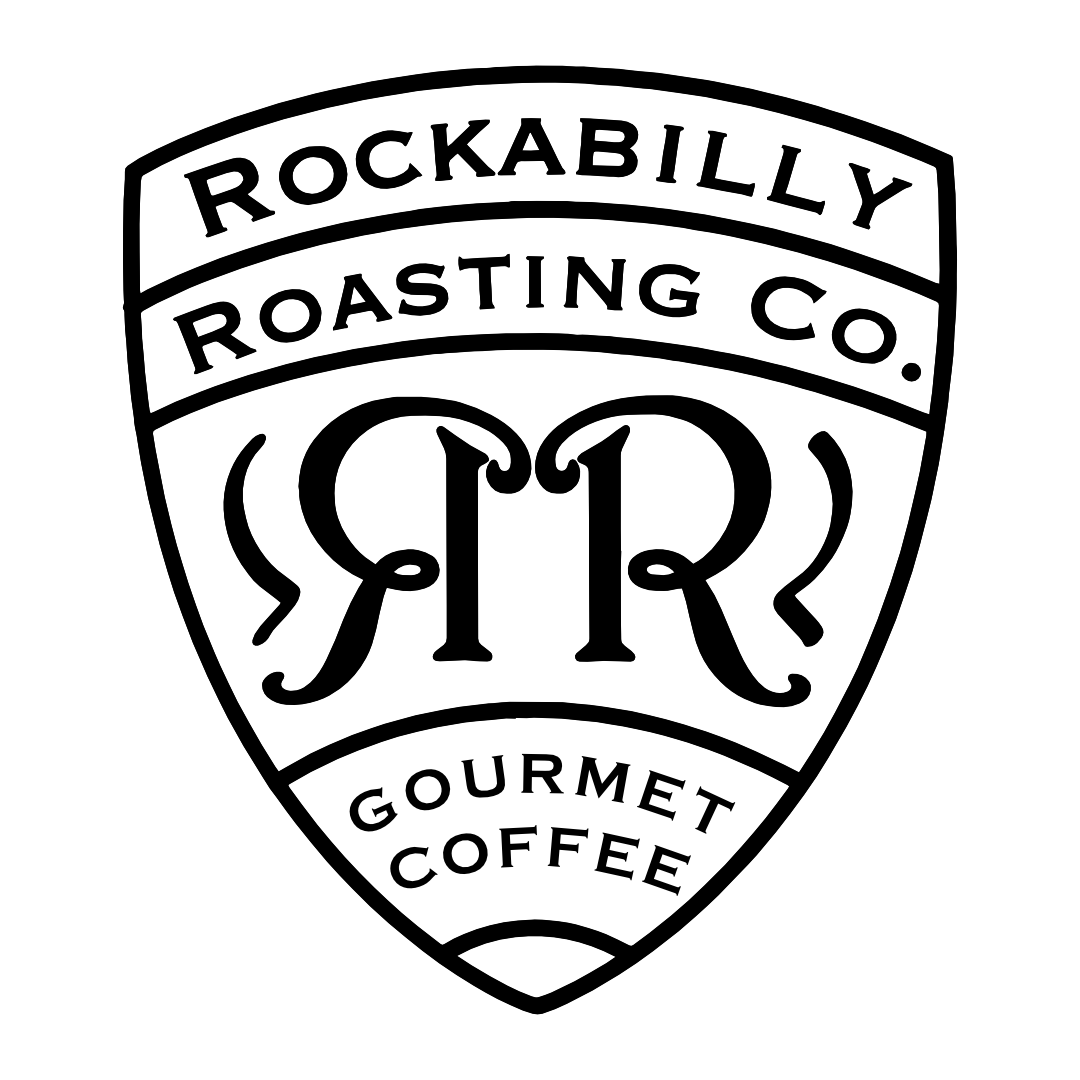
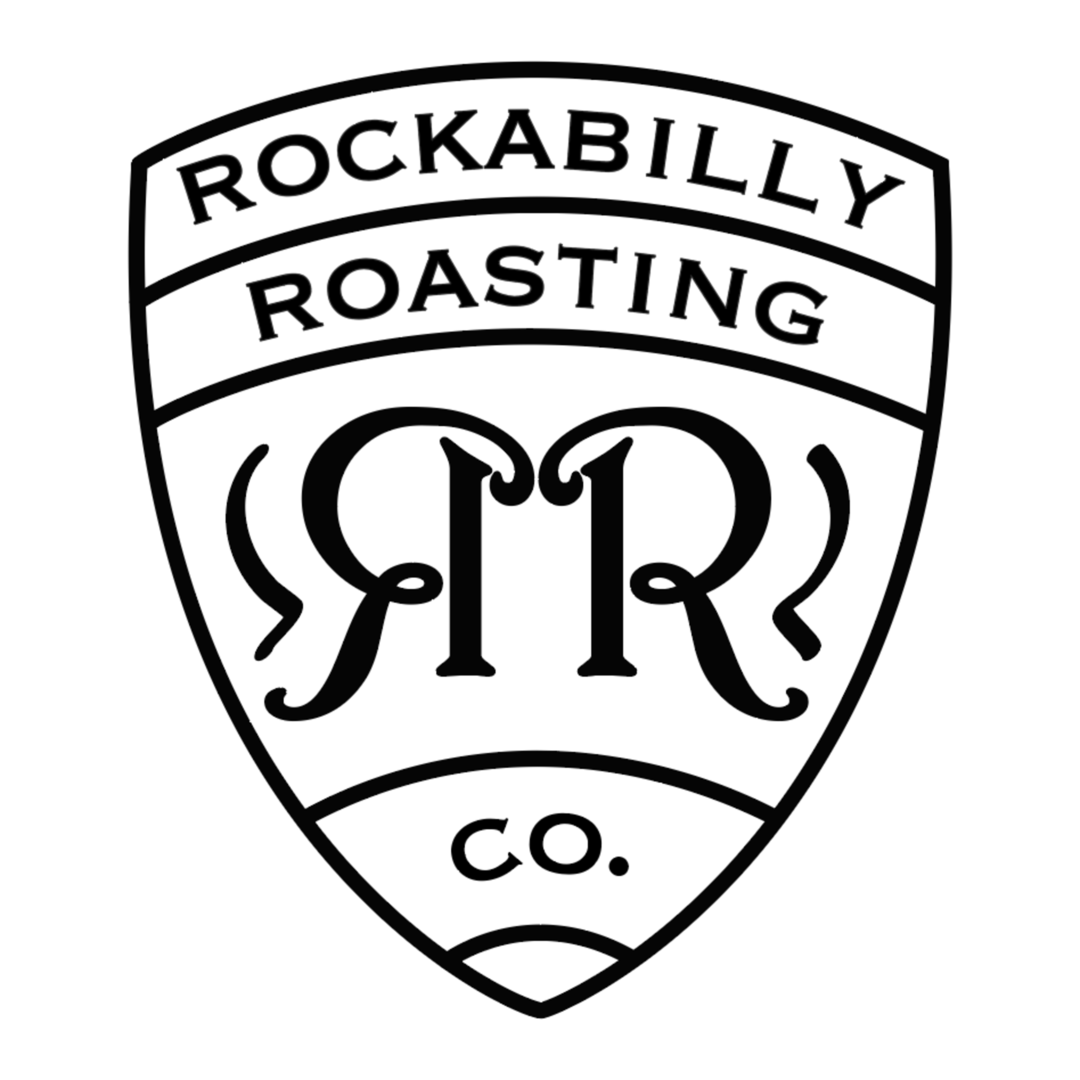
Brand: simplified CO. shield badges + double-candle on Daily Grind
Regenerate the raster badge assets from the new simplified primary mark
(ROCKABILLY / ROASTING / RR / CO.), dropping the old GOURMET COFFEE
double-stroke version. badge-white/black feed the storefront header,
footer, and printed invoice + packing slip — no template changes needed
since references are unchanged.

Add the transparent double-candle mark as the Daily Grind brand anchor,
centered in the amber glow above the hero eyebrow on both the homepage
subscription pitch and the /subscriptions landing.

diff --git a/internal/ui/storefront/subscriptions_templ.go b/internal/ui/storefront/subscriptions_templ.go
@@ -50,7 +50,7 @@ func SubscriptionsContent(props SubscriptionsPageProps) templ.Component {
 			templ_7745c5c3_Var1 = templ.NopComponent
 		}
 		ctx = templ.ClearChildren(ctx)
-		templ_7745c5c3_Err = templruntime.WriteString(templ_7745c5c3_Buffer, 1, "<!-- Hero: ink surface, candle glow, stamp-pressed headline --><section class=\"-mx-4 sm:-mx-6 lg:-mx-8 -mt-8 relative bg-ink overflow-hidden\"><!-- Amber radial glow centered --><div class=\"absolute inset-0 pointer-events-none\" style=\"background: radial-gradient(ellipse at center, rgba(242,160,61,0.16) 0%, rgba(242,160,61,0.04) 45%, transparent 75%);\"></div><!-- Paper halftone dot texture --><div class=\"absolute inset-0 texture-halftone-paper pointer-events-none\" style=\"mask-image: linear-gradient(180deg, transparent, black 25%, black 75%, transparent); -webkit-mask-image: linear-gradient(180deg, transparent, black 25%, black 75%, transparent);\"></div><div class=\"relative mx-auto max-w-5xl px-6 sm:px-10 lg:px-14 py-20 sm:py-28 text-center\"><p class=\"font-oswald font-semibold text-candle text-xs sm:text-sm\" style=\"letter-spacing:0.3em; text-transform:uppercase;\">Fresh on your schedule</p><h1 class=\"font-slab text-paper uppercase leading-[0.9] mt-5\" style=\"font-size: clamp(2.75rem, 8vw, 5.5rem); letter-spacing:-0.005em;\">The Daily <span class=\"font-script text-candle normal-case inline-block align-baseline\" style=\"font-size:1.05em; letter-spacing:0;\">grind.</span></h1><p class=\"font-oswald text-paper-warm text-base sm:text-lg leading-relaxed mt-6 max-w-xl mx-auto\">Pick the roast. Pick the cadence. We roast it, let it rest, and ship it at its peak — the way good coffee is meant to be enjoyed.</p><!-- Three inline value props, newspaper-column feel --><ul class=\"mt-10 inline-flex flex-col sm:flex-row items-center gap-3 sm:gap-0 font-oswald font-bold text-paper text-xs sm:text-sm\" style=\"letter-spacing:0.2em; text-transform:uppercase;\"><li class=\"inline-flex items-center gap-2\"><span class=\"text-candle\" aria-hidden=\"true\">◆</span> Always fresh</li><li class=\"hidden sm:inline-block text-chrome-deep mx-5\" aria-hidden=\"true\">·</li>")
+		templ_7745c5c3_Err = templruntime.WriteString(templ_7745c5c3_Buffer, 1, "<!-- Hero: ink surface, candle glow, stamp-pressed headline --><section class=\"-mx-4 sm:-mx-6 lg:-mx-8 -mt-8 relative bg-ink overflow-hidden\"><!-- Amber radial glow centered --><div class=\"absolute inset-0 pointer-events-none\" style=\"background: radial-gradient(ellipse at center, rgba(242,160,61,0.16) 0%, rgba(242,160,61,0.04) 45%, transparent 75%);\"></div><!-- Paper halftone dot texture --><div class=\"absolute inset-0 texture-halftone-paper pointer-events-none\" style=\"mask-image: linear-gradient(180deg, transparent, black 25%, black 75%, transparent); -webkit-mask-image: linear-gradient(180deg, transparent, black 25%, black 75%, transparent);\"></div><div class=\"relative mx-auto max-w-5xl px-6 sm:px-10 lg:px-14 py-20 sm:py-28 text-center\"><!-- Double-candle mark: the Daily Grind brand anchor, lit by the amber glow behind it --><img src=\"/static/double-candle-mark.png\" alt=\"\" aria-hidden=\"true\" class=\"mx-auto mb-8 h-36 sm:h-44 w-auto select-none pointer-events-none\" width=\"583\" height=\"760\" loading=\"eager\" decoding=\"async\"><p class=\"font-oswald font-semibold text-candle text-xs sm:text-sm\" style=\"letter-spacing:0.3em; text-transform:uppercase;\">Fresh on your schedule</p><h1 class=\"font-slab text-paper uppercase leading-[0.9] mt-5\" style=\"font-size: clamp(2.75rem, 8vw, 5.5rem); letter-spacing:-0.005em;\">The Daily <span class=\"font-script text-candle normal-case inline-block align-baseline\" style=\"font-size:1.05em; letter-spacing:0;\">grind.</span></h1><p class=\"font-oswald text-paper-warm text-base sm:text-lg leading-relaxed mt-6 max-w-xl mx-auto\">Pick the roast. Pick the cadence. We roast it, let it rest, and ship it at its peak — the way good coffee is meant to be enjoyed.</p><!-- Three inline value props, newspaper-column feel --><ul class=\"mt-10 inline-flex flex-col sm:flex-row items-center gap-3 sm:gap-0 font-oswald font-bold text-paper text-xs sm:text-sm\" style=\"letter-spacing:0.2em; text-transform:uppercase;\"><li class=\"inline-flex items-center gap-2\"><span class=\"text-candle\" aria-hidden=\"true\">◆</span> Always fresh</li><li class=\"hidden sm:inline-block text-chrome-deep mx-5\" aria-hidden=\"true\">·</li>")
 		if templ_7745c5c3_Err != nil {
 			return templ_7745c5c3_Err
 		}
@@ -62,7 +62,7 @@ func SubscriptionsContent(props SubscriptionsPageProps) templ.Component {
 			var templ_7745c5c3_Var2 string
 			templ_7745c5c3_Var2, templ_7745c5c3_Err = templ.JoinStringErrs(fmt.Sprintf("%d%%", props.maxDiscount()))
 			if templ_7745c5c3_Err != nil {
-				return templ.Error{Err: templ_7745c5c3_Err, FileName: `internal/ui/storefront/subscriptions.templ`, Line: 52, Col: 53}
+				return templ.Error{Err: templ_7745c5c3_Err, FileName: `internal/ui/storefront/subscriptions.templ`, Line: 63, Col: 53}
 			}
 			_, templ_7745c5c3_Err = templ_7745c5c3_Buffer.WriteString(templ.EscapeString(templ_7745c5c3_Var2))
 			if templ_7745c5c3_Err != nil {
@@ -143,7 +143,7 @@ func subscriptionProductCardPaper(card SubscriptionProductCard) templ.Component 
 		var templ_7745c5c3_Var4 templ.SafeURL
 		templ_7745c5c3_Var4, templ_7745c5c3_Err = templ.JoinURLErrs(templ.SafeURL("/catalog/" + card.Product.Slug + "?mode=subscribe"))
 		if templ_7745c5c3_Err != nil {
-			return templ.Error{Err: templ_7745c5c3_Err, FileName: `internal/ui/storefront/subscriptions.templ`, Line: 143, Col: 77}
+			return templ.Error{Err: templ_7745c5c3_Err, FileName: `internal/ui/storefront/subscriptions.templ`, Line: 154, Col: 77}
 		}
 		_, templ_7745c5c3_Err = templ_7745c5c3_Buffer.WriteString(templ.EscapeString(templ_7745c5c3_Var4))
 		if templ_7745c5c3_Err != nil {
@@ -161,7 +161,7 @@ func subscriptionProductCardPaper(card SubscriptionProductCard) templ.Component 
 			var templ_7745c5c3_Var5 string
 			templ_7745c5c3_Var5, templ_7745c5c3_Err = templ.ResolveAttributeValue(card.ThumbnailURL)
 			if templ_7745c5c3_Err != nil {
-				return templ.Error{Err: templ_7745c5c3_Err, FileName: `internal/ui/storefront/subscriptions.templ`, Line: 148, Col: 28}
+				return templ.Error{Err: templ_7745c5c3_Err, FileName: `internal/ui/storefront/subscriptions.templ`, Line: 159, Col: 28}
 			}
 			_, templ_7745c5c3_Err = templ_7745c5c3_Buffer.WriteString(templ_7745c5c3_Var5)
 			if templ_7745c5c3_Err != nil {
@@ -174,7 +174,7 @@ func subscriptionProductCardPaper(card SubscriptionProductCard) templ.Component 
 			var templ_7745c5c3_Var6 string
 			templ_7745c5c3_Var6, templ_7745c5c3_Err = templ.ResolveAttributeValue(cardAltText(card.Product.Title, card.Coffee))
 			if templ_7745c5c3_Err != nil {
-				return templ.Error{Err: templ_7745c5c3_Err, FileName: `internal/ui/storefront/subscriptions.templ`, Line: 149, Col: 55}
+				return templ.Error{Err: templ_7745c5c3_Err, FileName: `internal/ui/storefront/subscriptions.templ`, Line: 160, Col: 55}
 			}
 			_, templ_7745c5c3_Err = templ_7745c5c3_Buffer.WriteString(templ_7745c5c3_Var6)
 			if templ_7745c5c3_Err != nil {
@@ -192,7 +192,7 @@ func subscriptionProductCardPaper(card SubscriptionProductCard) templ.Component 
 			var templ_7745c5c3_Var7 string
 			templ_7745c5c3_Var7, templ_7745c5c3_Err = templ.JoinStringErrs(string([]rune(card.Product.Title)[0:1]))
 			if templ_7745c5c3_Err != nil {
-				return templ.Error{Err: templ_7745c5c3_Err, FileName: `internal/ui/storefront/subscriptions.templ`, Line: 157, Col: 48}
+				return templ.Error{Err: templ_7745c5c3_Err, FileName: `internal/ui/storefront/subscriptions.templ`, Line: 168, Col: 48}
 			}
 			_, templ_7745c5c3_Err = templ_7745c5c3_Buffer.WriteString(templ.EscapeString(templ_7745c5c3_Var7))
 			if templ_7745c5c3_Err != nil {
@@ -215,7 +215,7 @@ func subscriptionProductCardPaper(card SubscriptionProductCard) templ.Component 
 			var templ_7745c5c3_Var8 string
 			templ_7745c5c3_Var8, templ_7745c5c3_Err = templ.JoinStringErrs(fmt.Sprintf("%d%%", card.MaxDiscount))
 			if templ_7745c5c3_Err != nil {
-				return templ.Error{Err: templ_7745c5c3_Err, FileName: `internal/ui/storefront/subscriptions.templ`, Line: 166, Col: 50}
+				return templ.Error{Err: templ_7745c5c3_Err, FileName: `internal/ui/storefront/subscriptions.templ`, Line: 177, Col: 50}
 			}
 			_, templ_7745c5c3_Err = templ_7745c5c3_Buffer.WriteString(templ.EscapeString(templ_7745c5c3_Var8))
 			if templ_7745c5c3_Err != nil {
@@ -248,7 +248,7 @@ func subscriptionProductCardPaper(card SubscriptionProductCard) templ.Component 
 			var templ_7745c5c3_Var9 string
 			templ_7745c5c3_Var9, templ_7745c5c3_Err = templ.JoinStringErrs(card.Coffee.Regions[0])
 			if templ_7745c5c3_Err != nil {
-				return templ.Error{Err: templ_7745c5c3_Err, FileName: `internal/ui/storefront/subscriptions.templ`, Line: 184, Col: 29}
+				return templ.Error{Err: templ_7745c5c3_Err, FileName: `internal/ui/storefront/subscriptions.templ`, Line: 195, Col: 29}
 			}
 			_, templ_7745c5c3_Err = templ_7745c5c3_Buffer.WriteString(templ.EscapeString(templ_7745c5c3_Var9))
 			if templ_7745c5c3_Err != nil {
@@ -266,7 +266,7 @@ func subscriptionProductCardPaper(card SubscriptionProductCard) templ.Component 
 			var templ_7745c5c3_Var10 string
 			templ_7745c5c3_Var10, templ_7745c5c3_Err = templ.JoinStringErrs(roastLevelLabel(card.Coffee.RoastLevel))
 			if templ_7745c5c3_Err != nil {
-				return templ.Error{Err: templ_7745c5c3_Err, FileName: `internal/ui/storefront/subscriptions.templ`, Line: 188, Col: 46}
+				return templ.Error{Err: templ_7745c5c3_Err, FileName: `internal/ui/storefront/subscriptions.templ`, Line: 199, Col: 46}
 			}
 			_, templ_7745c5c3_Err = templ_7745c5c3_Buffer.WriteString(templ.EscapeString(templ_7745c5c3_Var10))
 			if templ_7745c5c3_Err != nil {
@@ -284,7 +284,7 @@ func subscriptionProductCardPaper(card SubscriptionProductCard) templ.Component 
 		var templ_7745c5c3_Var11 string
 		templ_7745c5c3_Var11, templ_7745c5c3_Err = templ.JoinStringErrs(card.Product.Title)
 		if templ_7745c5c3_Err != nil {
-			return templ.Error{Err: templ_7745c5c3_Err, FileName: `internal/ui/storefront/subscriptions.templ`, Line: 193, Col: 24}
+			return templ.Error{Err: templ_7745c5c3_Err, FileName: `internal/ui/storefront/subscriptions.templ`, Line: 204, Col: 24}
 		}
 		_, templ_7745c5c3_Err = templ_7745c5c3_Buffer.WriteString(templ.EscapeString(templ_7745c5c3_Var11))
 		if templ_7745c5c3_Err != nil {
@@ -307,7 +307,7 @@ func subscriptionProductCardPaper(card SubscriptionProductCard) templ.Component 
 				var templ_7745c5c3_Var12 string
 				templ_7745c5c3_Var12, templ_7745c5c3_Err = templ.JoinStringErrs(note)
 				if templ_7745c5c3_Err != nil {
-					return templ.Error{Err: templ_7745c5c3_Err, FileName: `internal/ui/storefront/subscriptions.templ`, Line: 200, Col: 13}
+					return templ.Error{Err: templ_7745c5c3_Err, FileName: `internal/ui/storefront/subscriptions.templ`, Line: 211, Col: 13}
 				}
 				_, templ_7745c5c3_Err = templ_7745c5c3_Buffer.WriteString(templ.EscapeString(templ_7745c5c3_Var12))
 				if templ_7745c5c3_Err != nil {
@@ -335,7 +335,7 @@ func subscriptionProductCardPaper(card SubscriptionProductCard) templ.Component 
 			var templ_7745c5c3_Var13 string
 			templ_7745c5c3_Var13, templ_7745c5c3_Err = templ.JoinStringErrs(formatCents(*card.BasePrice))
 			if templ_7745c5c3_Err != nil {
-				return templ.Error{Err: templ_7745c5c3_Err, FileName: `internal/ui/storefront/subscriptions.templ`, Line: 209, Col: 101}
+				return templ.Error{Err: templ_7745c5c3_Err, FileName: `internal/ui/storefront/subscriptions.templ`, Line: 220, Col: 101}
 			}
 			_, templ_7745c5c3_Err = templ_7745c5c3_Buffer.WriteString(templ.EscapeString(templ_7745c5c3_Var13))
 			if templ_7745c5c3_Err != nil {
@@ -348,7 +348,7 @@ func subscriptionProductCardPaper(card SubscriptionProductCard) templ.Component 
 			var templ_7745c5c3_Var14 string
 			templ_7745c5c3_Var14, templ_7745c5c3_Err = templ.JoinStringErrs(formatCents(discountedPrice(*card.BasePrice, card.MaxDiscount)))
 			if templ_7745c5c3_Err != nil {
-				return templ.Error{Err: templ_7745c5c3_Err, FileName: `internal/ui/storefront/subscriptions.templ`, Line: 210, Col: 129}
+				return templ.Error{Err: templ_7745c5c3_Err, FileName: `internal/ui/storefront/subscriptions.templ`, Line: 221, Col: 129}
 			}
 			_, templ_7745c5c3_Err = templ_7745c5c3_Buffer.WriteString(templ.EscapeString(templ_7745c5c3_Var14))
 			if templ_7745c5c3_Err != nil {
@@ -366,7 +366,7 @@ func subscriptionProductCardPaper(card SubscriptionProductCard) templ.Component 
 			var templ_7745c5c3_Var15 string
 			templ_7745c5c3_Var15, templ_7745c5c3_Err = templ.JoinStringErrs(formatCents(*card.BasePrice))
 			if templ_7745c5c3_Err != nil {
-				return templ.Error{Err: templ_7745c5c3_Err, FileName: `internal/ui/storefront/subscriptions.templ`, Line: 214, Col: 36}
+				return templ.Error{Err: templ_7745c5c3_Err, FileName: `internal/ui/storefront/subscriptions.templ`, Line: 225, Col: 36}
 			}
 			_, templ_7745c5c3_Err = templ_7745c5c3_Buffer.WriteString(templ.EscapeString(templ_7745c5c3_Var15))
 			if templ_7745c5c3_Err != nil {

diff --git a/internal/ui/storefront/home_templ.go b/internal/ui/storefront/home_templ.go
@@ -235,7 +235,7 @@ func HomeContent(props HomePageProps) templ.Component {
 				return templ_7745c5c3_Err
 			}
 		}
-		templ_7745c5c3_Err = templruntime.WriteString(templ_7745c5c3_Buffer, 23, "<!-- The Daily Grind — subscription pitch (ink-dominant, stamp-pressed) --><section class=\"-mx-4 sm:-mx-6 lg:-mx-8 relative bg-ink overflow-hidden\"><!-- Amber radial glow centered --><div class=\"absolute inset-0 pointer-events-none\" style=\"background: radial-gradient(ellipse at center, rgba(242,160,61,0.14) 0%, rgba(242,160,61,0.04) 40%, transparent 70%);\"></div><!-- Paper halftone dot texture --><div class=\"absolute inset-0 texture-halftone-paper pointer-events-none\" style=\"mask-image: linear-gradient(180deg, transparent, black 30%, black 70%, transparent); -webkit-mask-image: linear-gradient(180deg, transparent, black 30%, black 70%, transparent);\"></div><div class=\"relative mx-auto max-w-5xl px-6 sm:px-10 lg:px-14 py-20 sm:py-28 text-center\"><p class=\"font-oswald text-candle text-xs sm:text-sm font-semibold\" style=\"letter-spacing:0.3em; text-transform:uppercase;\">Fresh on your schedule</p><h2 class=\"font-slab text-paper uppercase leading-[0.9] mt-5\" style=\"font-size: clamp(2.75rem, 7vw, 5rem); letter-spacing:-0.005em;\">The Daily <span class=\"font-script text-candle candle-flicker normal-case inline-block align-baseline\" style=\"font-size:1.05em; letter-spacing:0;\">grind.</span></h2><p class=\"font-oswald text-paper-warm text-base sm:text-lg leading-relaxed mt-6 max-w-xl mx-auto\">Pick the roast. Pick the cadence. We roast it, let it rest, and ship it at its peak — the way good coffee is meant to be enjoyed.</p><!-- Three numbered value props, stamped like a menu --><ul class=\"grid sm:grid-cols-3 gap-10 sm:gap-8 mt-14 text-left\"><li class=\"flex items-start gap-4\"><span class=\"font-slab text-candle leading-none flex-shrink-0\" style=\"font-size: 2.5rem;\">01</span><div><p class=\"font-oswald font-bold text-paper text-sm\" style=\"letter-spacing:0.14em; text-transform:uppercase;\">Roasted the day we ship</p><p class=\"font-oswald text-paper-warm text-sm mt-1 leading-snug\">Never pulled from a shelf. Never more than a week old.</p></div></li><li class=\"flex items-start gap-4\"><span class=\"font-slab text-candle leading-none flex-shrink-0\" style=\"font-size: 2.5rem;\">02</span><div><p class=\"font-oswald font-bold text-paper text-sm\" style=\"letter-spacing:0.14em; text-transform:uppercase;\">10% off every bag</p><p class=\"font-oswald text-paper-warm text-sm mt-1 leading-snug\">Subscribers never pay full price. Simple as that.</p></div></li><li class=\"flex items-start gap-4\"><span class=\"font-slab text-candle leading-none flex-shrink-0\" style=\"font-size: 2.5rem;\">03</span><div><p class=\"font-oswald font-bold text-paper text-sm\" style=\"letter-spacing:0.14em; text-transform:uppercase;\">Skip, swap, or quit</p><p class=\"font-oswald text-paper-warm text-sm mt-1 leading-snug\">Change anything, anytime. No call, no hassle, no hold music.</p></div></li></ul><!-- CTA + reassurance microcopy --><div class=\"mt-14 flex flex-col items-center gap-4\"><a href=\"/subscriptions\" class=\"btn-stamp-paper group inline-flex items-center gap-2 bg-rust text-paper border-2 border-paper px-8 py-4 font-oswald font-bold text-sm\" style=\"letter-spacing:0.14em; text-transform:uppercase;\">Join the daily grind <svg class=\"size-4 transition-transform group-hover:translate-x-0.5\" fill=\"none\" viewBox=\"0 0 24 24\" stroke-width=\"2.5\" stroke=\"currentColor\" aria-hidden=\"true\"><path stroke-linecap=\"round\" stroke-linejoin=\"round\" d=\"M13.5 4.5 21 12m0 0-7.5 7.5M21 12H3\"></path></svg></a><p class=\"font-oswald text-chrome-deep text-xs\" style=\"letter-spacing:0.18em; text-transform:uppercase;\">No membership fee · Cancel in two clicks</p></div></div></section><!-- Popular Roasts — paper-and-ink product grid -->")
+		templ_7745c5c3_Err = templruntime.WriteString(templ_7745c5c3_Buffer, 23, "<!-- The Daily Grind — subscription pitch (ink-dominant, stamp-pressed) --><section class=\"-mx-4 sm:-mx-6 lg:-mx-8 relative bg-ink overflow-hidden\"><!-- Amber radial glow centered --><div class=\"absolute inset-0 pointer-events-none\" style=\"background: radial-gradient(ellipse at center, rgba(242,160,61,0.14) 0%, rgba(242,160,61,0.04) 40%, transparent 70%);\"></div><!-- Paper halftone dot texture --><div class=\"absolute inset-0 texture-halftone-paper pointer-events-none\" style=\"mask-image: linear-gradient(180deg, transparent, black 30%, black 70%, transparent); -webkit-mask-image: linear-gradient(180deg, transparent, black 30%, black 70%, transparent);\"></div><div class=\"relative mx-auto max-w-5xl px-6 sm:px-10 lg:px-14 py-20 sm:py-28 text-center\"><!-- Double-candle mark: the Daily Grind brand anchor, lit by the amber glow behind it --><img src=\"/static/double-candle-mark.png\" alt=\"\" aria-hidden=\"true\" class=\"mx-auto mb-8 h-28 sm:h-36 w-auto select-none pointer-events-none\" width=\"583\" height=\"760\" loading=\"lazy\" decoding=\"async\"><p class=\"font-oswald text-candle text-xs sm:text-sm font-semibold\" style=\"letter-spacing:0.3em; text-transform:uppercase;\">Fresh on your schedule</p><h2 class=\"font-slab text-paper uppercase leading-[0.9] mt-5\" style=\"font-size: clamp(2.75rem, 7vw, 5rem); letter-spacing:-0.005em;\">The Daily <span class=\"font-script text-candle candle-flicker normal-case inline-block align-baseline\" style=\"font-size:1.05em; letter-spacing:0;\">grind.</span></h2><p class=\"font-oswald text-paper-warm text-base sm:text-lg leading-relaxed mt-6 max-w-xl mx-auto\">Pick the roast. Pick the cadence. We roast it, let it rest, and ship it at its peak — the way good coffee is meant to be enjoyed.</p><!-- Three numbered value props, stamped like a menu --><ul class=\"grid sm:grid-cols-3 gap-10 sm:gap-8 mt-14 text-left\"><li class=\"flex items-start gap-4\"><span class=\"font-slab text-candle leading-none flex-shrink-0\" style=\"font-size: 2.5rem;\">01</span><div><p class=\"font-oswald font-bold text-paper text-sm\" style=\"letter-spacing:0.14em; text-transform:uppercase;\">Roasted the day we ship</p><p class=\"font-oswald text-paper-warm text-sm mt-1 leading-snug\">Never pulled from a shelf. Never more than a week old.</p></div></li><li class=\"flex items-start gap-4\"><span class=\"font-slab text-candle leading-none flex-shrink-0\" style=\"font-size: 2.5rem;\">02</span><div><p class=\"font-oswald font-bold text-paper text-sm\" style=\"letter-spacing:0.14em; text-transform:uppercase;\">10% off every bag</p><p class=\"font-oswald text-paper-warm text-sm mt-1 leading-snug\">Subscribers never pay full price. Simple as that.</p></div></li><li class=\"flex items-start gap-4\"><span class=\"font-slab text-candle leading-none flex-shrink-0\" style=\"font-size: 2.5rem;\">03</span><div><p class=\"font-oswald font-bold text-paper text-sm\" style=\"letter-spacing:0.14em; text-transform:uppercase;\">Skip, swap, or quit</p><p class=\"font-oswald text-paper-warm text-sm mt-1 leading-snug\">Change anything, anytime. No call, no hassle, no hold music.</p></div></li></ul><!-- CTA + reassurance microcopy --><div class=\"mt-14 flex flex-col items-center gap-4\"><a href=\"/subscriptions\" class=\"btn-stamp-paper group inline-flex items-center gap-2 bg-rust text-paper border-2 border-paper px-8 py-4 font-oswald font-bold text-sm\" style=\"letter-spacing:0.14em; text-transform:uppercase;\">Join the daily grind <svg class=\"size-4 transition-transform group-hover:translate-x-0.5\" fill=\"none\" viewBox=\"0 0 24 24\" stroke-width=\"2.5\" stroke=\"currentColor\" aria-hidden=\"true\"><path stroke-linecap=\"round\" stroke-linejoin=\"round\" d=\"M13.5 4.5 21 12m0 0-7.5 7.5M21 12H3\"></path></svg></a><p class=\"font-oswald text-chrome-deep text-xs\" style=\"letter-spacing:0.18em; text-transform:uppercase;\">No membership fee · Cancel in two clicks</p></div></div></section><!-- Popular Roasts — paper-and-ink product grid -->")
 		if templ_7745c5c3_Err != nil {
 			return templ_7745c5c3_Err
 		}
